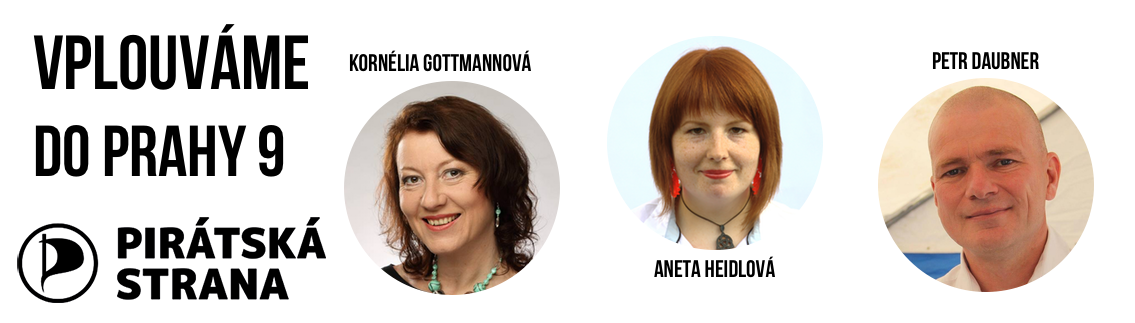
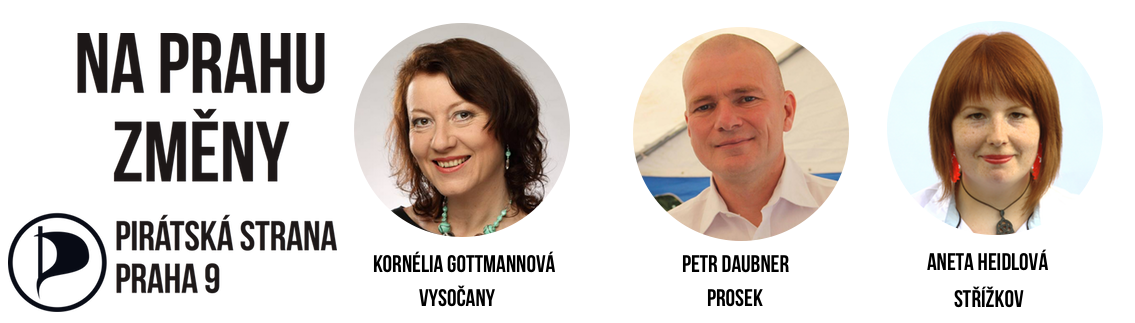
Change head image
Change head image

diff --git a/komunalni-volby-2018/index.md b/komunalni-volby-2018/index.md
@@ -10,6 +10,5 @@ keywords: volby, 2018, program, kandidátka, kandidátní listina, kandidáti, k
 
 <blockquote class="c-blockquote c-blockquote--wicon">
     <p>Po úspěšných volbách do poslanecké sněmovny pociťují Piráti velký zájem ze strany veřejnosti. Rádi bychom tuto přízeň společnosti vrátili a v nadcházejících podzimních volbách vpluli do zastupitelstev měst, městských částí, obcí a krajů.</p>
-    <p>Otevřenost je nejlepším lékem na korupci a plýtvání. To, že být transparentní, není nic těžkého, dokazujeme sami na sobě - už jen proto sami dobře víme, jak na to, a společně to dokážeme na Praze 11.</p>
-    <cite>Jiří Dohnal, kandidát na starostu Městské části Prahy 11</cite>
+    <p>Otevřenost je nejlepším lékem na korupci a plýtvání. To, že být transparentní, není nic těžkého, dokazujeme sami na sobě - už jen proto sami dobře víme, jak na to, a společně to dokážeme na Praze 9.</p>
 </blockquote>
